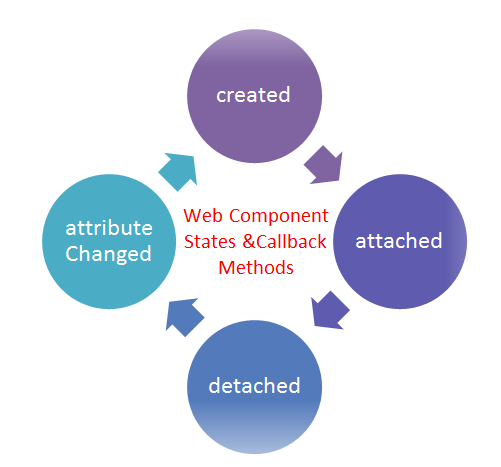
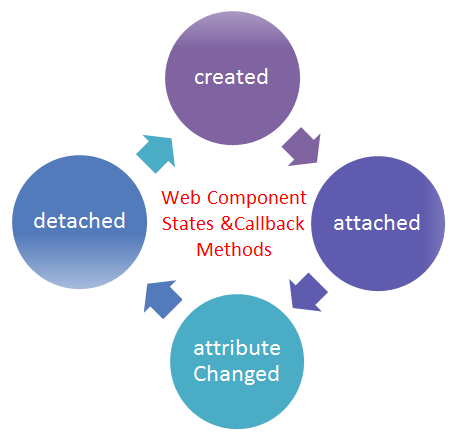
[CONTENT] Web components updates

diff --git a/topics/Web Components/index.html b/topics/Web Components/index.html
@@ -1,50 +1,119 @@
-<section id="web_components_lifecycle_img">
-  <h3>Web Components Lifecycle</h3>
-  <img src="../images/web_components_lifecycle.png" />
-</section>
-<section id="react_lifecyce_img">
-  <h3>React Component Lifecycle</h3>
-  <img src="../images/reactjs-lifecycle.png" />
+<section>
+    <h3>Components</h3>
+    <div>Elements of the User Interface that are:
+        <ul>
+            <li>Encapsulated: contain all the HTML, CSS and JS</li>
+            <li>Independant: explicitly connected to the application</li>
+            <li>Reusable: use the same components in multiple apps</li>
+        </ul>
 </section>
 <section id="atomic_design_img">
-  <h3>Atomic Design</h3>
-  <img src="../images/atomic-design-process.png" />
+    <h3>Atomic Design</h3>
+    <img src="../images/atomic-design-process.png" />
 </section>
 <section id="atomic_design">
-  <h3>Atomic Design</h3>
-  <ul>
-    <li>Everything is a component</li>
-    <li>Reuse on all levels</li>
-    <li>Granularity and maintainability</li>
-  </ul>
-</section>
-<section>
-</section>
-<section id="standards">
-  <h3>Web Components Standards</h3>
+    <h3>Atomic Design</h3>
     <ul>
-      <li>Custom elements</li>
-      <li>HTML templates</li>
-      <li>HTML Imports</li>
-      <li>Shadow DOM</li>
+        <li>Everything is a component</li>
+        <li>Componens compose into larger components</li>
+        <li>Granularity, reuse and maintainability</li>
+    </ul>
+</section>
+<section id="mvc_image">
+    <h3>Model-View-Controller</h3>
+    <img src="../images/mvc.jpg" />
+</section>
+<section id="mvc_image">
+    <h3>Model-View-Controller</h3>
+    <ul>
+        <li>Model: manages domain behavior and data</li>
+        <li>View: represents the display of a model</li>
+        <li>Controller: takes user input, manipulates the model which causes the view to update</li>
+        <hr/>
+        <li>Core idea: Separation of concerns</li>
     </ul>
 </section>
 <section>
+    <h3>Unidirectional data flow</h3>
+    <img src="../images/flux.png" />
+</section>
+<section>
+    <h3>Unidirectional data flow</h3>
+    <ul>
+        <li>Actions: simple objects - type property and data</li>
+        <li>Dispatcher: central entry-point, routes actions to stores</li>
+        <li>Stores: execute logic for actions, contain pure state</li>
+        <li>Views: hierarchies of components, render on store state changes</li>
+        <hr/>
+        <li>Core idea: predictable data flow</li>
+    </ul>
+</section>
+<section>
+    <h3>Two-way binding vs Virtual DOM</h3>
+    <ul>
+        <li>Two-way binding: changes are applied individually, cascades may happen</li>
+        <li>Virtual DOM: batches changes, re-renders efficiently</li>
+    </ul>
+</section>
+<section>
+    <h3>Virtual DOM</h3>
+    <img src="../images/virtualdom.png" />
+</section>
+<section id="web_components_lifecycle_img">
+    <h3>Components Lifecycle</h3>
+    <img src="../images/web_components_lifecycle.png" />
+</section>
+<section id="web_components_lifecycle">
+    <h3>Components Lifecycle</h3>
+    <ul>
+        <li>Created: an instance of a component has been created</li>
+        <li>Attached: an instance has been attached to the DOM</li>
+        <li>Changed: an instance has been changed</li>
+        <li>Detached: an instance has been removed from the DOM</li>
+    </ul>
+</section>
+<section id="standards">
+    <h3>Web Components Standards</h3>
+    <div><div class="larger-font">Custom elements</div>
+      specification for designing and using new types of DOM elements<hr/>
+    </div>
+    <div class="fragment"><div class="larger-font">Shadow DOM</div>
+      specifies how to use encapsulated style and markup in web components<hr/>
+    </div>
+    <div class="fragment"><div class="larger-font">HTML templates</div>
+      defines the inclusion and reuse of HTML documents in other HTML documents<hr/>
+    </div>
+    <div class="fragment"><div class="larger-font">HTML Imports</div>
+      defines how to declare fragments of markup that go unused at page load,
+       but can be instantiated later on at runtime
+    </div>
+</section>
+<section id="standards">
+    <h3>Web Components Standards</h3>
+    <div>The web components standarts are still being developed
+      and are NOT yet ready for direct production use.
+        <hr/>
+    </div>
+    <div class="fragment">
+      Many frameworks are simulating some of the Web Component features<hr/>
+    </div>
+    <div class="fragment">
+      The standards do NOT try to solve state managment or app composition</div>
 </section>
 <section id="links">
     <h3>Links</h3>
     <ul>
-      <li><a href="http://webcomponents.org/">WebComponents.org</a></li>
-      <li><a href="https://css-tricks.com/modular-future-web-components/">Web Components (article)</a></li>
-      <li><a href="http://developer.telerik.com/featured/front-end-application-frameworks-component-architectures/">Web Component Frameworks (article)</a></li>
-      <li><a href="http://staltz.com/react-could-love-web-components.html">React and Web Components (article)</a></li>
-      <li><a href="http://slides.com/evgeniyjs/wc-and-angular2">Angular2 and Web Components (presentation)</a></li>
-      <li><a href="http://atomicdesign.bradfrost.com/table-of-contents/">Atomic Design (book)</a></li>
-      <li><a href="https://medium.com/@yejodido/atomic-components-managing-dynamic-react-components-using-atomic-design-part-1-5f07451f261f#.cw6m86k05">
+        <li><a href="http://webcomponents.org/">WebComponents.org</a></li>
+        <li><a href="https://css-tricks.com/modular-future-web-components/">Web Components (article)</a></li>
+        <li><a href="http://developer.telerik.com/featured/front-end-application-frameworks-component-architectures/">Web Component Frameworks (article)</a></li>
+        <li><a href="https://auth0.com/blog/updated-and-improved-more-benchmarks-virtual-dom-vs-angular-12-vs-mithril-js-vs-the-rest/">Frameworks comparison (article)</a></li>
+        <li><a href="https://medium.com/hacking-and-gonzo/flux-vs-mvc-design-patterns-57b28c0f71b7#.aowl92vfh">Flux vs MVC (article)</a></li>
+        <li><a href="http://atomicdesign.bradfrost.com/table-of-contents/">Atomic Design (book)</a></li>
+        <li><a href="https://medium.com/@yejodido/atomic-components-managing-dynamic-react-components-using-atomic-design-part-1-5f07451f261f#.cw6m86k05">
         Atomic Design (article)
       </li>
       <hr/>
       <li><a href="https://www.youtube.com/watch?v=6I_GwgoGm1w">Choosing a frontend framework (youtube)</a></li>
-      <li><a href="https://www.youtube.com/watch?v=j8eBXGPl_5E">Building a UI component library (youtube)</a></li>
+        <li><a href="https://www.youtube.com/watch?v=j8eBXGPl_5E">Building a UI component library (youtube)</a></li>
     </ul>
 </section>

diff --git a/topics/Deployment Automation/index.html b/topics/Deployment Automation/index.html
@@ -7,7 +7,7 @@
   <ul>
     <li>Repeatable &amp; reliable</li>
     <li>Easier state management</li>
-    <li>Infrastructure as code</li> 
+    <li>Infrastructure as code</li>
   </ul>
 </section>
 <section>
@@ -43,8 +43,8 @@
   <ul>
     <li>Containers: new, lite and provider agnostic</li>
     <li>VMs: familiar, tested and provider agnostic</li>
-    <li>Bare metal: for when you need all the power you can get</li>   
-  </ul> 
+    <li>Bare metal: for when you need all the power you can get</li>
+  </ul>
 </section>
 <section>
   <h3>Tools</h3>
@@ -92,5 +92,6 @@
     <li><a href="https://oncletom.io/2016/travis-ssh-deploy/">Deploying through Travis with RSync</a></li>
     <li><a href="https://www.digitalocean.com/community/tutorials/how-to-deploy-a-basic-php-application-using-ansible-on-ubuntu-14-04">Deploying PHP via Ansible</a></li>
     <li><a href="http://martinfowler.com/bliki/BlueGreenDeployment.html">Martin Fowler on Blue/Green deployment</a></li>
+    <li><a href="https://www.youtube.com/watch?v=K843Ukiw3d8">Infrastructure as code (youtube)</a></li>
   </ul>
 </section>
